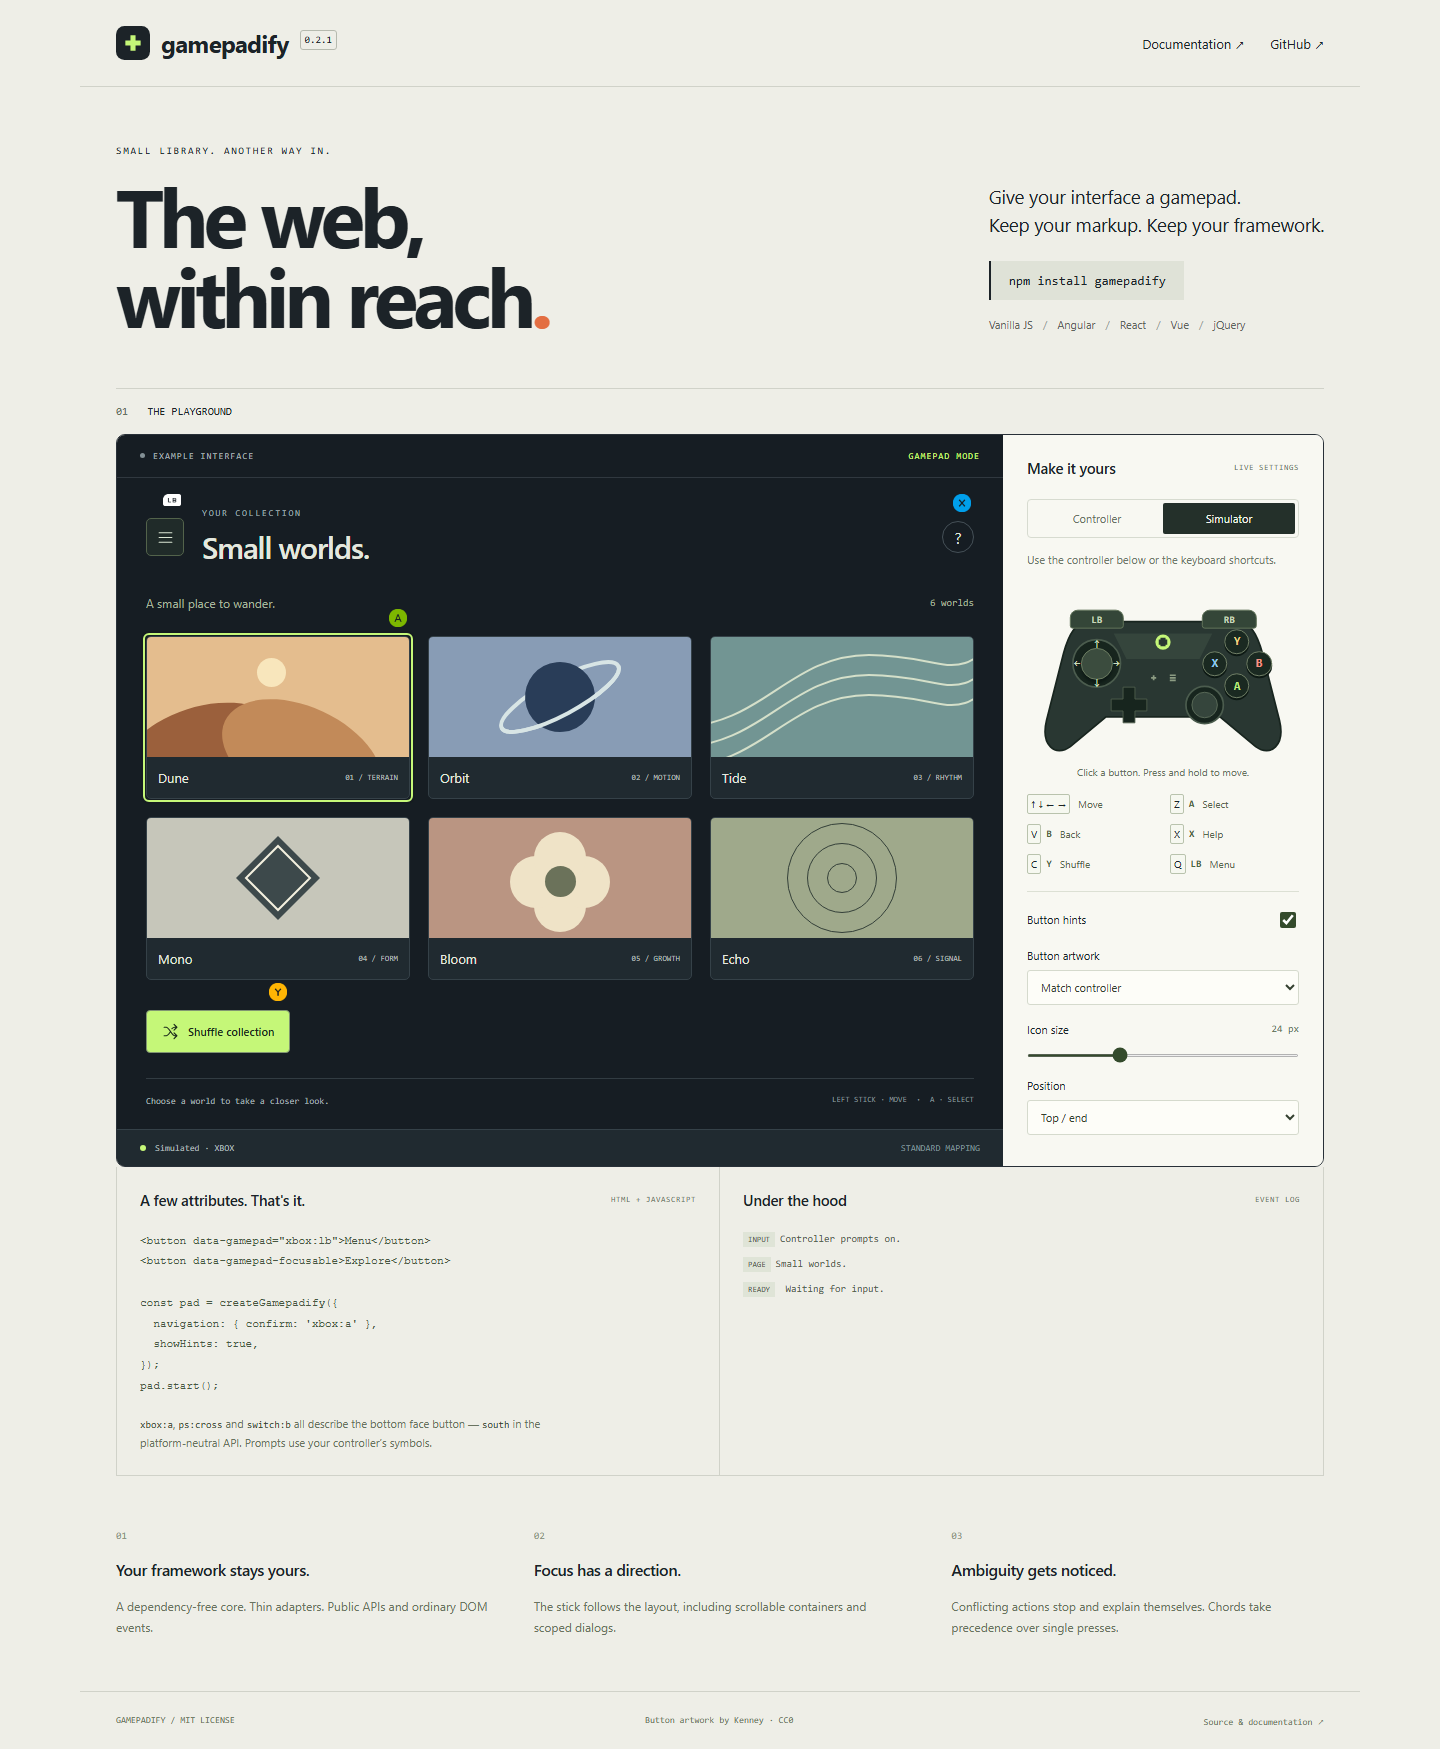
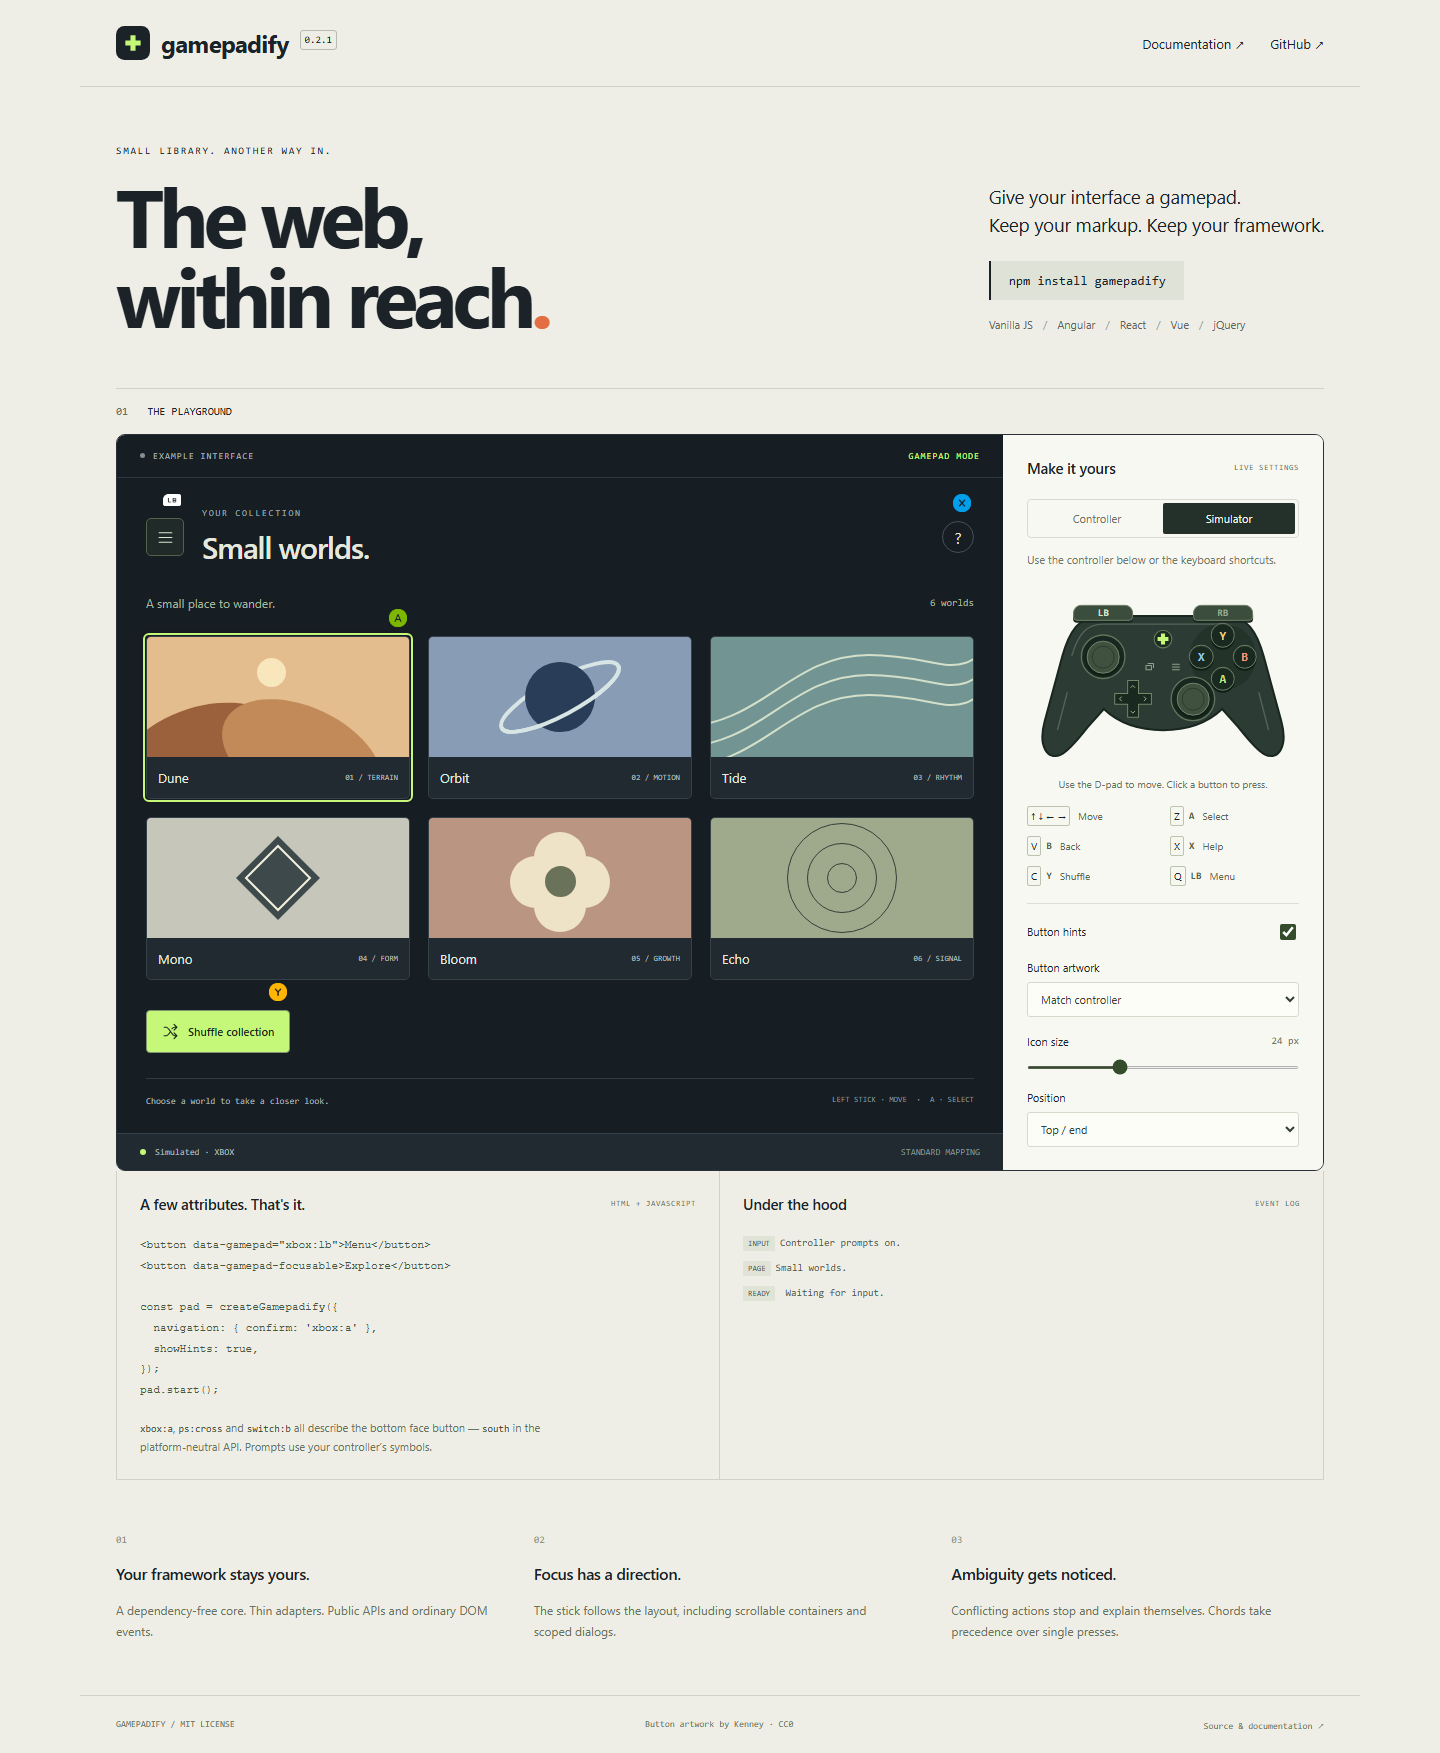
Redraw the simulator controller with aligned controls

diff --git a/demo/index.html b/demo/index.html
@@ -93,25 +93,28 @@
         <p id="input-note" class="note">Connect a gamepad and press any button. The first press shows your controls.</p>
         <div id="simulator" hidden>
           <div class="virtual-pad" id="virtual-pad" role="group" aria-label="Controller simulator">
-            <svg class="pad-shell" viewBox="0 0 320 210" aria-hidden="true">
-              <path d="M73 42h174c16 0 24 15 30 37l20 79c7 29-10 44-28 31l-42-35H93l-42 35c-18 13-35-2-28-31l20-79c6-22 14-37 30-37z" fill="#293732" stroke="#18251f" stroke-width="2"/>
-              <path d="M102 56h116l-15 30h-86z" fill="#35453c"/>
-              <circle cx="82" cy="91" r="28" fill="#17251e" stroke="#4b5c4e" stroke-width="2"/>
-              <circle cx="209" cy="140" r="22" fill="#17251e" stroke="#4b5c4e" stroke-width="2"/><circle cx="209" cy="140" r="15" fill="#35453c" stroke="#60705d"/>
-              <path d="M113 119h14v14h14v14h-14v14h-14v-14H99v-14h14z" fill="#17251e" stroke="#52614f"/>
-              <circle cx="160" cy="66" r="9" fill="#c5f778"/><path d="M157 61h6v10h-6zM155 63h10v6h-10z" fill="#293732"/>
-              <path d="M146 108h6m-3-3v6m19-6h7m-7 3h7m-7 3h7" stroke="#8c9c83" stroke-width="2"/>
+            <svg class="pad-shell" viewBox="0 0 400 280" aria-hidden="true">
+              <path d="M106 44h188c29 0 44 23 54 59l26 96c10 37-4 58-24 49-11-5-24-21-39-40l-24-27c-22 21-50 31-87 31s-65-10-87-31l-24 27c-15 19-28 35-39 40-20 9-34-12-24-49l26-96c10-36 25-59 54-59Z" fill="#2c3c35" stroke="#18271f" stroke-width="3"/>
+              <path d="M66 102c10-33 23-46 46-46h176c23 0 36 13 46 46M59 157l-14 54m296-54 14 54" fill="none" stroke="#536457" stroke-width="2" stroke-linecap="round"/>
+              <circle cx="112" cy="104" r="32" fill="#18271f" stroke="#61745c" stroke-width="2"/>
+              <circle cx="288" cy="104" r="49" fill="#23332a"/>
+              <circle cx="244" cy="166" r="32" fill="#18271f" stroke="#61745c" stroke-width="2"/>
+              <path d="M148 139h16v19h19v16h-19v19h-16v-19h-19v-16h19Z" fill="#19291f" stroke="#73866a" stroke-width="1.5" stroke-linejoin="round"/>
+              <circle cx="200" cy="78" r="13" fill="#1c2c23" stroke="#677b5c" stroke-width="1.5"/>
+              <path d="M197 70h6v5h5v6h-5v5h-6v-5h-5v-6h5Z" fill="#c5f778"/>
+              <g fill="none" stroke="#94a18a" stroke-width="1.5" stroke-linecap="round" stroke-linejoin="round"><path d="M175 117h8v6h-8Zm3-3h8v6M214 115h10m-10 4h10m-10 4h10"/></g>
             </svg>
             <span id="sim-stick" class="sim-stick" aria-hidden="true"></span>
+            <span class="sim-stick resting-stick" aria-hidden="true"></span>
             <button class="pad-shoulder" data-pad-button="left-shoulder" aria-label="LB — menu"><span data-button-label="left-shoulder">LB</span></button>
             <span class="pad-shoulder right-shoulder" aria-hidden="true"><span data-button-label="right-shoulder">RB</span></span>
             <button class="pad-face face-south" data-pad-button="south" aria-label="A — select"><span data-button-label="south">A</span></button>
             <button class="pad-face face-east" data-pad-button="east" aria-label="B — go back"><span data-button-label="east">B</span></button>
             <button class="pad-face face-west" data-pad-button="west" aria-label="X — help"><span data-button-label="west">X</span></button>
             <button class="pad-face face-north" data-pad-button="north" aria-label="Y — shuffle"><span data-button-label="north">Y</span></button>
-            <button class="pad-direction direction-up" data-pad-direction="up" aria-label="Move up">↑</button><button class="pad-direction direction-right" data-pad-direction="right" aria-label="Move right">→</button><button class="pad-direction direction-down" data-pad-direction="down" aria-label="Move down">↓</button><button class="pad-direction direction-left" data-pad-direction="left" aria-label="Move left">←</button>
+            <button class="pad-direction direction-up" data-pad-direction="up" aria-label="Move up"><svg viewBox="0 0 12 12" aria-hidden="true"><path d="m3 7 3-3 3 3"/></svg></button><button class="pad-direction direction-right" data-pad-direction="right" aria-label="Move right"><svg viewBox="0 0 12 12" aria-hidden="true"><path d="m5 3 3 3-3 3"/></svg></button><button class="pad-direction direction-down" data-pad-direction="down" aria-label="Move down"><svg viewBox="0 0 12 12" aria-hidden="true"><path d="m3 5 3 3 3-3"/></svg></button><button class="pad-direction direction-left" data-pad-direction="left" aria-label="Move left"><svg viewBox="0 0 12 12" aria-hidden="true"><path d="m7 3-3 3 3 3"/></svg></button>
           </div>
-          <p class="sim-caption">Click a button. Press and hold to move.</p>
+          <p class="sim-caption">Use the D-pad to move. Click a button to press.</p>
           <dl class="sim-legend"><div><dt><kbd>↑ ↓ ← →</kbd></dt><dd>Move</dd></div><div><dt><kbd>Z</kbd> <span data-button-label="south">A</span></dt><dd>Select</dd></div><div><dt><kbd>V</kbd> <span data-button-label="east">B</span></dt><dd>Back</dd></div><div><dt><kbd>X</kbd> <span data-button-label="west">X</span></dt><dd>Help</dd></div><div><dt><kbd>C</kbd> <span data-button-label="north">Y</span></dt><dd>Shuffle</dd></div><div><dt><kbd>Q</kbd> <span data-button-label="left-shoulder">LB</span></dt><dd>Menu</dd></div></dl>
         </div>
         <div class="settings-group">

diff --git a/demo/src/style.css b/demo/src/style.css
@@ -133,23 +133,28 @@ h1 > span { color: #e36e42; }
 .input-picker button { width: 50%; border: 0; background: none; font-size: 11px; padding: 8px; border-radius: 2px; color: #697264; }
 .input-picker button.selected { background: #24302a; color: #f4f7eb; }
 .note { color: #6f786b; font-size: 11px; line-height: 1.6; margin: 13px 0 18px; }
-.virtual-pad { position: relative; width: 100%; aspect-ratio: 320 / 210; touch-action: none; user-select: none; }
-.pad-shell { display: block; width: 100%; height: 100%; }
-.sim-stick { position: absolute; left: 25.625%; top: 43.333%; width: 11.875%; aspect-ratio: 1; border: 1px solid #6b7c61; border-radius: 50%; background: #3b4c3e; transform: translate(calc(-50% + var(--stick-x, 0px)), calc(-50% + var(--stick-y, 0px))); box-shadow: 0 3px 3px #0e1a16; pointer-events: none; }
-.pad-face, .pad-direction, .pad-shoulder { position: absolute; display: grid; place-items: center; padding: 0; font: 600 12px var(--mono); transform: translate(-50%, -50%); }
-.pad-face { width: 9.375%; aspect-ratio: 1; border-radius: 50%; border: 1px solid #718067; background: #1a2921; color: var(--face); box-shadow: 0 2px 0 #0d1914; transition: background .1s, transform .1s; }
-.pad-face:hover { background: #3b4d3b; }
-.pad-face.pressed { background: var(--face); color: #18261c; transform: translate(-50%, -50%) scale(.88); box-shadow: none; }
-.face-south { left: 77.188%; top: 55.714%; --face: #bfe980; }
-.face-east { left: 85.313%; top: 43.333%; --face: #f39485; }
-.face-west { left: 69.063%; top: 43.333%; --face: #91c8ec; }
-.face-north { left: 77.188%; top: 30.952%; --face: #f0d081; }
-.pad-shoulder { left: 25.625%; top: 18.571%; width: 20%; height: 10.476%; color: #c6d6bb; background: #344638; border: 1px solid #62745a; border-radius: 8px 8px 3px 3px; font-size: 10px; }
-.pad-shoulder.pressed { color: #1c2b20; background: #c5f778; }
-.right-shoulder { left: 74.375%; }
-.pad-direction { width: 7.5%; height: 11.429%; background: none; border: 0; color: #cadcbe; font-size: 11px; border-radius: 4px; }
+.virtual-pad { position: relative; width: 100%; max-width: 400px; margin: auto; aspect-ratio: 400 / 280; touch-action: none; user-select: none; }
+.pad-shell { display: block; width: 100%; height: 100%; pointer-events: none; }
+.sim-stick, .pad-face, .pad-direction, .pad-shoulder { position: absolute; left: calc(var(--x) / 400 * 100%); top: calc(var(--y) / 280 * 100%); width: calc(var(--size) / 400 * 100%); height: calc(var(--size) / 280 * 100%); transform: translate(-50%, -50%); }
+.sim-stick { --x: 112; --y: 104; --size: 48; border: 1px solid #73866a; border-radius: 50%; background: #40523f; transform: translate(calc(-50% + var(--stick-x, 0%)), calc(-50% + var(--stick-y, 0%))); box-shadow: 0 2px 2px #101c16; pointer-events: none; }
+.sim-stick::after { content: ''; position: absolute; inset: 12%; border: 1px solid #2a3b2c; border-radius: inherit; }
+.resting-stick { --x: 244; --y: 166; --stick-x: 0%; --stick-y: 0%; }
+.pad-face, .pad-direction, .pad-shoulder { display: grid; place-items: center; padding: 0; font: 600 12px/1 var(--mono); }
+.pad-face { --size: 36; border-radius: 50%; border: 1px solid #718067; background: #19291f; color: var(--face); box-shadow: 0 2px 0 #101c16, inset 0 1px 0 #8ba17a26; transition: background .1s, transform .1s; }
+.pad-face:hover { background: #40523f; border-color: #a1b591; }
+.pad-face.pressed { background: var(--face); color: #18261c; transform: translate(-50%, -50%) scale(.92); box-shadow: none; }
+.face-south { --x: 288; --y: 136; --face: #bfe980; }
+.face-east { --x: 320; --y: 104; --face: #f39485; }
+.face-west { --x: 256; --y: 104; --face: #91c8ec; }
+.face-north { --x: 288; --y: 72; --face: #f0d081; }
+.pad-shoulder { --x: 112; --y: 39; width: 22%; height: calc(24 / 280 * 100%); color: #d7e2cd; background: #3b4e3e; border: 1px solid #718067; border-radius: 8px 8px 4px 4px; font-size: 10px; box-shadow: 0 2px 0 #18271f; }
+button.pad-shoulder:hover { background: #506449; }
+.pad-shoulder.pressed { color: #1c2b20; background: #c5f778; box-shadow: none; }
+.right-shoulder { --x: 288; color: #9aa991; }
+.pad-direction { --size: 18; border: 0; border-radius: 2px; background: none; color: #9eae91; }
+.pad-direction svg { width: 65%; height: 65%; fill: none; stroke: currentColor; stroke-width: 1.5; stroke-linecap: round; stroke-linejoin: round; pointer-events: none; }
 .pad-direction:hover, .pad-direction.pressed { color: #17251e; background: #c5f778; }
-.direction-up { left: 25.625%; top: 32.381%; }.direction-right { left: 32.813%; top: 43.333%; }.direction-down { left: 25.625%; top: 54.286%; }.direction-left { left: 18.438%; top: 43.333%; }
+.direction-up { --x: 156; --y: 148; }.direction-right { --x: 174; --y: 166; }.direction-down { --x: 156; --y: 184; }.direction-left { --x: 138; --y: 166; }
 .sim-caption { font-size: 10px; line-height: 1.5; color: #69745f; margin: 0 0 14px; text-align: center; }
 .sim-legend { display: grid; grid-template-columns: 1fr 1fr; gap: 10px 14px; margin: 0; font-size: 10px; }
 .sim-legend > div { display: flex; align-items: center; gap: 8px; }

diff --git a/demo/src/simulator.ts b/demo/src/simulator.ts
@@ -23,8 +23,8 @@ export function createDemoSimulator(element: HTMLElement) {
     source.axes(x, y);
     for (const button of element.querySelectorAll<HTMLElement>('[data-pad-button]')) button.classList.toggle('pressed', [...pressed.values()].includes(button.dataset.padButton as Button));
     for (const button of element.querySelectorAll<HTMLElement>('[data-pad-direction]')) button.classList.toggle('pressed', values.includes(button.dataset.padDirection as Direction));
-    element.style.setProperty('--stick-x', `${x * 5}px`);
-    element.style.setProperty('--stick-y', `${y * 5}px`);
+    element.style.setProperty('--stick-x', `${x * 12.5}%`);
+    element.style.setProperty('--stick-y', `${y * 12.5}%`);
   }
 
   function reset() {

diff --git a/CHANGELOG.md b/CHANGELOG.md
@@ -4,6 +4,7 @@
 
 - Use Xbox aliases throughout the README, integration snippets and runnable examples; explain neutral button positions and cross-controller mappings separately.
 - Refresh the playground with a shared SVG logo/favicon, corrected card artwork, controller-shaped simulator and platform-specific button labels.
+- Redraw the simulator on one coordinate grid with symmetric grips and shoulders, inset face buttons and an interactive D-pad.
 - Add an LB navigation menu, curated journeys and a session journal, with URL history and gamepad-only navigation. Animate page transitions and random shuffling with reduced-motion support; remove placeholder favorite, text search and class/conflict controls from the playground.
 - Add scoped control tips, map dialog back to the right face button (Xbox B), and preserve controller mode while using Live Settings.
 - Align popup action labels and arrows inside evenly padded buttons so the controller focus ring has balanced spacing.
